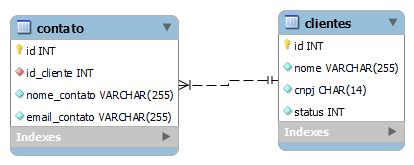
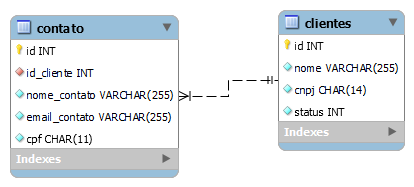
banco populado e atualizado com o cpf

Changed region(s): [[0.0, 0.3333, 0.9855, 0.9697], [0.0, 0.0606, 0.4348, 0.3333], [0.6667, 0.0303, 0.9855, 0.303]]

diff --git a/BD/popular_banco/Criar Contatos.php b/BD/popular_banco/Criar Contatos.php
@@ -1,0 +1,81 @@
+<?php
+    set_time_limit(0);
+    $coon  = new PDO("mysql:host=localhost;dbname=teste2","root","");
+
+        $sql="
+            (SELECT CLIENTES.id FROM CLIENTES WHERE status=1)
+            EXCEPT 
+            (SELECT CONTATO.id_cliente from CONTATO)
+        ";
+
+        $stmt=$coon->prepare($sql);
+
+        $stmt->execute();
+
+        foreach($stmt as $linha){
+            for ($i = 1; $i <= rand(1,10); $i++) {
+               
+               
+    $dominio=['pratics.com.br','gmail.com','outlook.com','bol.com','gov.br','globo.com','hotmail.com','live.com','yahoo.com'];
+    
+    $nome=json_decode(file_get_contents('https://randomuser.me/api/?nat=br'),true)['results'][0]['name'];
+    
+    $nome= $nome['first'].' '.$nome['last']; 
+
+
+
+    $dadosParaEnviar = http_build_query(
+       [
+            'acao' => 'gerar_cpf',
+            'pontuacao'=>'N'
+            
+       ]
+    );
+
+    $opcoes = ['http' =>
+        [
+            'method'  => 'POST',
+            'header'  => 'Content-Type: application/x-www-form-urlencoded',
+            'content' => $dadosParaEnviar
+        ]
+        ];
+
+    $contexto = stream_context_create($opcoes);
+
+    $cpf   = file_get_contents('https://www.4devs.com.br/ferramentas_online.php', false, $contexto);
+
+    $email=implode('.',explode(' ',clearId($nome))).'@'.$dominio[rand(0,count($dominio)-1)];
+       
+    
+
+    $sql="
+    INSERT INTO contato(id_cliente,nome_contato, email_contato, cpf) VALUES (:id_cliente,:nome_contato,:email_contato,:cpf)
+    ";
+
+    $stmt=$coon->prepare($sql);
+    $stmt->bindParam(':id_cliente',$linha['id']);
+    $stmt->bindParam(':nome_contato',$nome);
+    $stmt->bindParam(':email_contato',$email);
+    $stmt->bindParam(':cpf',$cpf);
+    $stmt->execute();
+    
+    echo sha1($cpf.$nome.$email);
+   echo '<hr>';
+}
+    }
+
+
+        function clearId($id){
+            $LetraProibi = Array(",",".","'","\"","&","|","!","#","$","¨","*","(",")","`","´","<",">",";","=","+","§","{","}","[","]","^","~","?","%");
+            $special = Array('Á','È','ô','Ç','á','è','Ò','ç','Â','Ë','ò','â','ë','Ø','Ñ','À','Ð','ø','ñ','à','ð','Õ','Å','õ','Ý','å','Í','Ö','ý','Ã','í','ö','ã',
+               'Î','Ä','î','Ú','ä','Ì','ú','Æ','ì','Û','æ','Ï','û','ï','Ù','®','É','ù','©','é','Ó','Ü','Þ','Ê','ó','ü','þ','ê','Ô','ß','‘','’','‚','“','”','„');
+            $clearspc = Array('a','e','o','c','a','e','o','c','a','e','o','a','e','o','n','a','d','o','n','a','o','o','a','o','y','a','i','o','y','a','i','o','a',
+               'i','a','i','u','a','i','u','a','i','u','a','i','u','i','u','','e','u','c','e','o','u','p','e','o','u','b','e','o','b','','','','','','');
+            $newId = str_replace($special, $clearspc, $id);
+            $newId = str_replace($LetraProibi, "", trim($newId));
+            return strtolower($newId);
+         }
+?>
+<head>
+  <meta http-equiv="refresh" content="2">
+</head>

diff --git a/BD/popular_banco/Criar Clientes.php b/BD/popular_banco/Criar Clientes.php
@@ -1,20 +1,20 @@
 <?php
 
     $dadosParaEnviar = http_build_query(
-        array(
+       [
             'acao' => 'gerar_cnpj',
             'pontuacao'=>'N'
             
-        )
+       ]
     );
 
-    $opcoes = array('http' =>
-        array(
+    $opcoes = ['http' =>
+      [
             'method'  => 'POST',
             'header'  => 'Content-Type: application/x-www-form-urlencoded',
             'content' => $dadosParaEnviar
-        )
-    );
+       ]
+      ];
 
     $contexto = stream_context_create($opcoes);
 
@@ -40,4 +40,8 @@
   $stmt->bindParam(':cnpj',$cnpj);
   $stmt->bindParam(':status',$ativo);
   $stmt->execute();
+  echo md5(time()).'<hr>';
 ?>
+<head>
+  <meta http-equiv="refresh" content="<?=rand(0,15)?>">
+</head>
